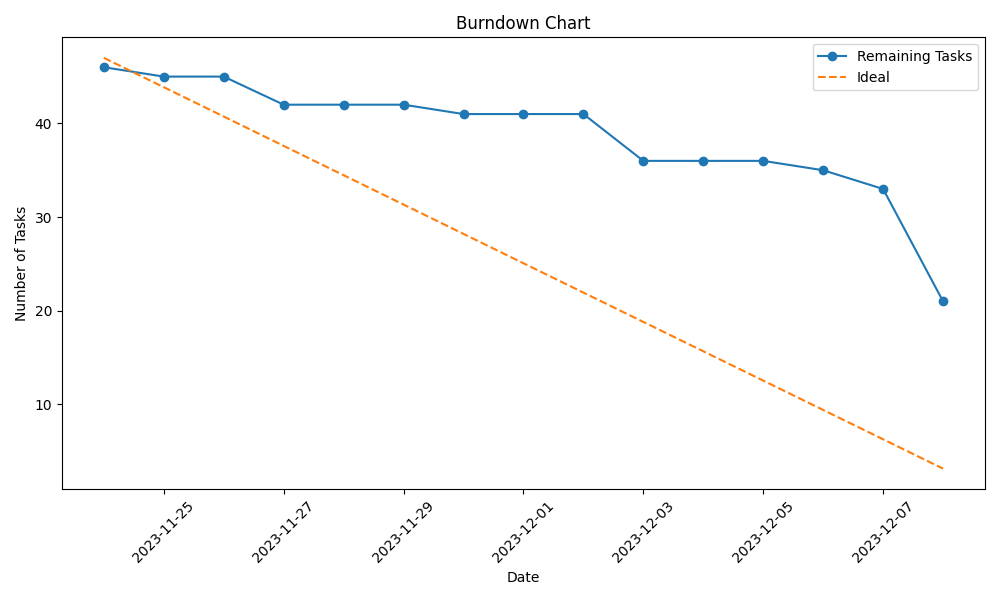
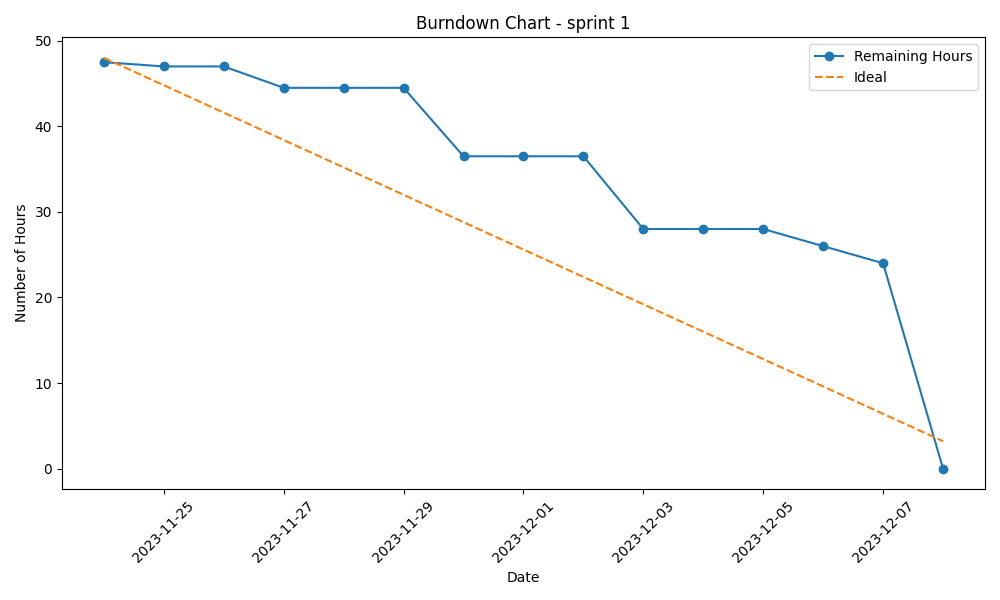
Fix Burndown Chart (with Hours)

diff --git a/scrum/burndown_chart.py b/scrum/burndown_chart.py
@@ -5,6 +5,7 @@ from datetime import datetime
 import pandas as pd
 import matplotlib.pyplot as plt
 import argparse
+from collections import defaultdict
 
 parser = argparse.ArgumentParser(description='Build a Burndown Chart from a Notion Database')
 load_dotenv()
@@ -58,57 +59,72 @@ def get_tasks():
 def create_burndown(tasks, chosen_sprint):
     data = []
 
-    total_tasks = 0
+    sprint_tasks = 0
+    sprint_hours = 0
+    hours_spent_per_day = defaultdict(int) 
 
     for page in tasks:
         props = page["properties"]
         
-        sprint = props.get("Sprint", {}).get("select", {})
-        if sprint:
-            sprint = sprint.get("name", "").lower()
-            total_tasks += 1
+        try:
+            sprint = props.get("Sprint", {}).get("select", {}).get("name", "").lower()
         
-        if sprint == chosen_sprint.lower():
-            status = props.get("Status", {}).get("status", {}).get("name", "").lower()
-            if status == "done":
-                completion_date = props.get("Completion Date", {}).get("date", {}).get("start", "")
-                completion_date = datetime.fromisoformat(completion_date)
-                data.append({"Page ID": page["id"], "Date": completion_date})
-    
+            if sprint == chosen_sprint.lower() and props.get("Estimate", {}): 
+                task_estimate_hours = float(props.get("Estimate", {}).get("select", {}).get("name", "").lower().split("[")[1].split("]")[0])
+                sprint_tasks += 1
+                sprint_hours += task_estimate_hours
+                status = props.get("Status", {}).get("status", {}).get("name", "").lower()
+        
+                if status == "done":
+                    completion_date = props.get("Completion Date", {}).get("date", {}).get("start", "")
+                    completion_date = datetime.fromisoformat(completion_date)
+
+                    hours_spent_per_day[completion_date] += task_estimate_hours
+
+                    data.append({"Page ID": page["id"], "Date": completion_date})
+        
+        except AttributeError:
+            continue
+
     df = pd.DataFrame(data)
+    if df.empty: return
     df["Date"] = df["Date"].dt.date
 
     all_days_in_sprint = pd.date_range(start=df["Date"].min(), end=df["Date"].max(), freq="D")
     all_days_df = pd.DataFrame({"Date": all_days_in_sprint})
     all_days_df["Date"] = all_days_df["Date"].dt.date
 
-    tasks_done_per_day = df.groupby("Date").size().reset_index(name="T_Done")
-    tasks_done_per_day = pd.merge(all_days_df, tasks_done_per_day, on="Date", how="left").fillna(0)
-    print(tasks_done_per_day)
+    hours_spent_per_day_df = pd.DataFrame.from_dict(hours_spent_per_day, orient="index", columns=['Hours'])
+    hours_spent_per_day_df = hours_spent_per_day_df.reset_index().rename(columns={'index': 'Date'})
+    print(hours_spent_per_day_df)
 
-    tasks_remaining_per_day = pd.DataFrame({
+    hours_spent_per_day_df["Date"] = hours_spent_per_day_df["Date"].dt.date
+    hours_spent_per_day_df = pd.merge(all_days_df, hours_spent_per_day_df, on="Date", how="left").fillna(0).groupby('Date')['Hours'].sum().reset_index()
+    print(hours_spent_per_day_df)
+
+    hours_remaining_per_day = pd.DataFrame({
         "Date": all_days_in_sprint,
-        "T_Remaining": total_tasks - tasks_done_per_day["T_Done"].cumsum()
+        "Hours_Remaining": sprint_hours - hours_spent_per_day_df["Hours"].cumsum()
     })
 
-    ideal_tasks_per_day = total_tasks / len(all_days_in_sprint)
-    tasks_remaining_per_day["Ideal"] = total_tasks - ideal_tasks_per_day * tasks_remaining_per_day.index
+    ideal_hours_per_day = sprint_hours / len(all_days_in_sprint)
+    hours_remaining_per_day["Ideal"] = sprint_hours - ideal_hours_per_day * hours_spent_per_day_df.index
 
     plt.figure(figsize=(10, 6))
     
-    plt.plot(tasks_remaining_per_day["Date"], tasks_remaining_per_day["T_Remaining"], label="Remaining Tasks", marker='o')
-    plt.plot(tasks_remaining_per_day["Date"], tasks_remaining_per_day["Ideal"], label="Ideal", linestyle='--')
+    plt.plot(hours_remaining_per_day["Date"], hours_remaining_per_day["Hours_Remaining"], label="Remaining Hours", marker='o')
+    plt.plot(hours_remaining_per_day["Date"], hours_remaining_per_day["Ideal"], label="Ideal", linestyle='--')
     
     plt.xlabel("Date")
-    plt.ylabel("Number of Tasks")
-    plt.title("Burndown Chart")
+    plt.ylabel("Number of Hours")
+    plt.title(f"Burndown Chart - {sprint}")
     plt.legend()
     plt.xticks(rotation=45)
     plt.tight_layout()
-    if os.environ["NOTION_TOKEN"]:
-        plt.savefig(f"scrum/{sprint}/burndown_chart.png")
-    else:
-        plt.savefig(f"{sprint}/burndown_chart.png")
+
+    cwd = os.path.dirname(os.path.realpath(__file__))
+    date = datetime.today().strftime('%Y-%m-%d')    
+    plt.savefig(f"{cwd}/{sprint}/bd-{date}.png")
 
 
 if __name__ == "__main__":
@@ -117,4 +133,4 @@ if __name__ == "__main__":
 
     sprint = f"sprint {args.sprint_num}"
     tasks = get_tasks()
-    create_burndown(tasks, sprint)
+    create_burndown(tasks, "sprint 1")
